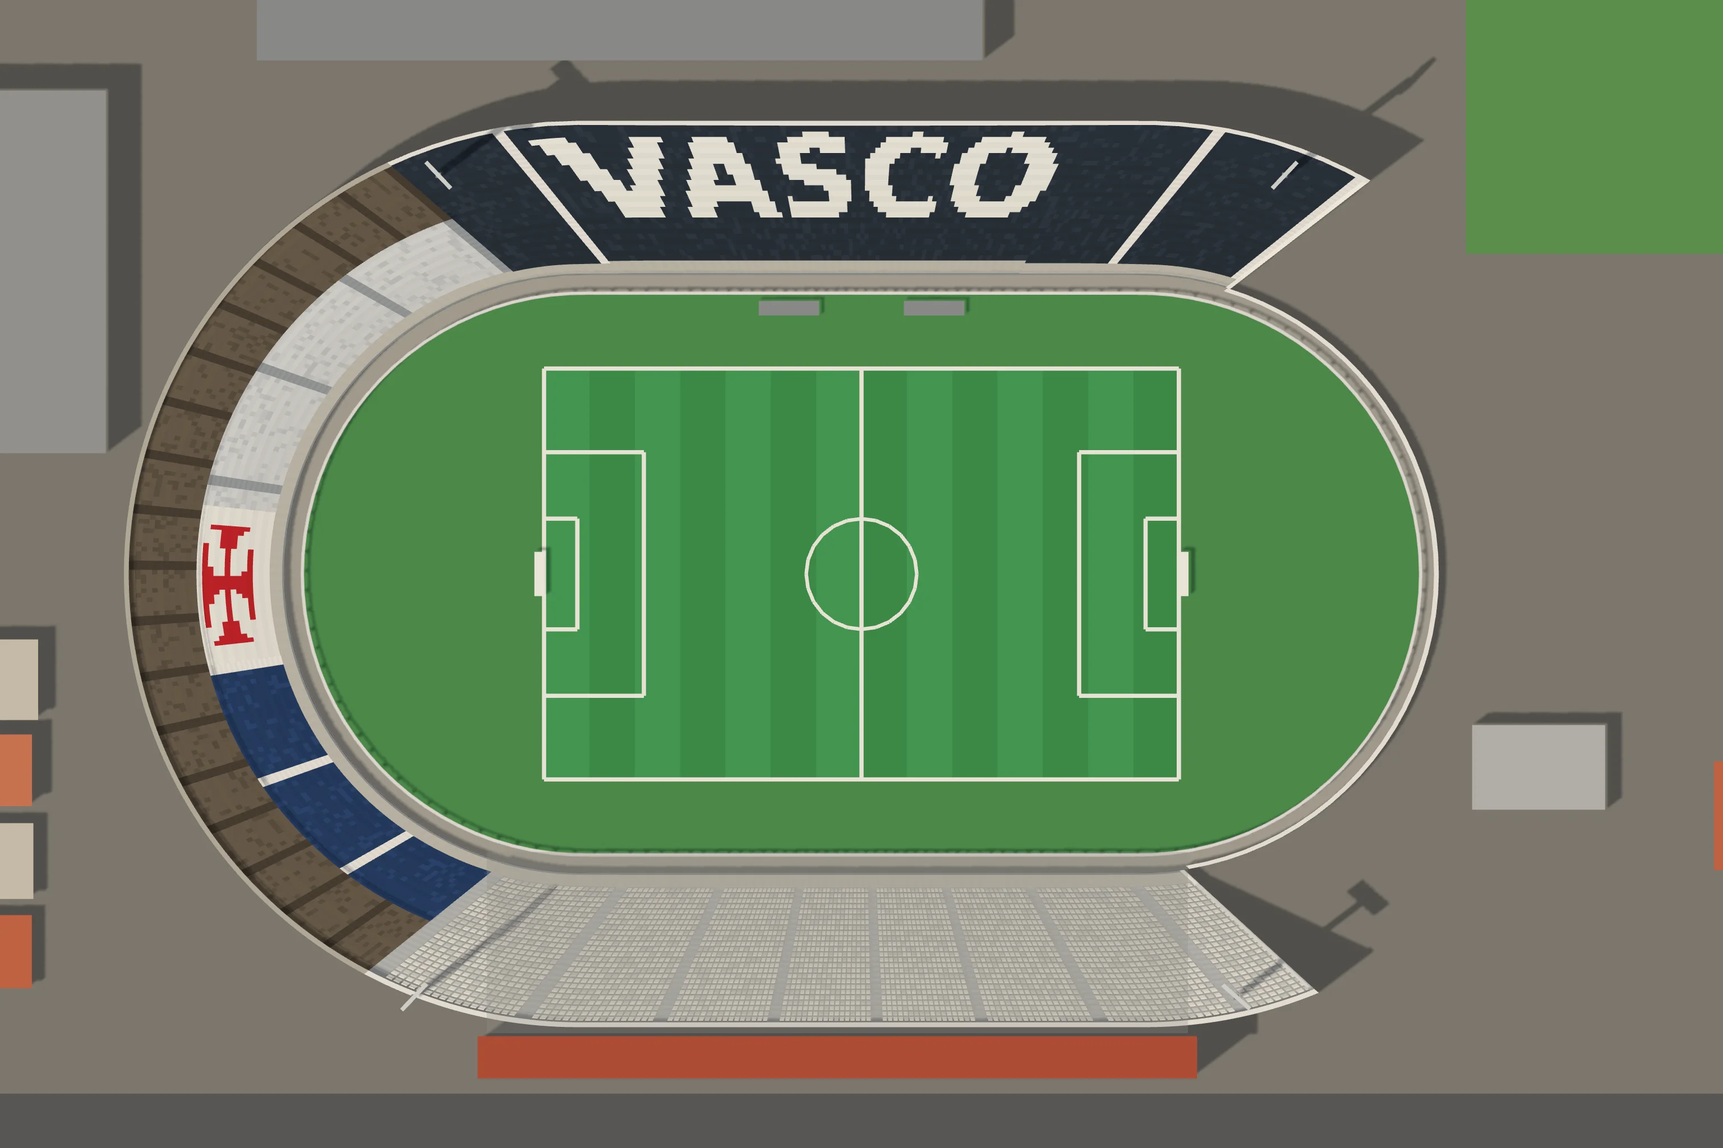
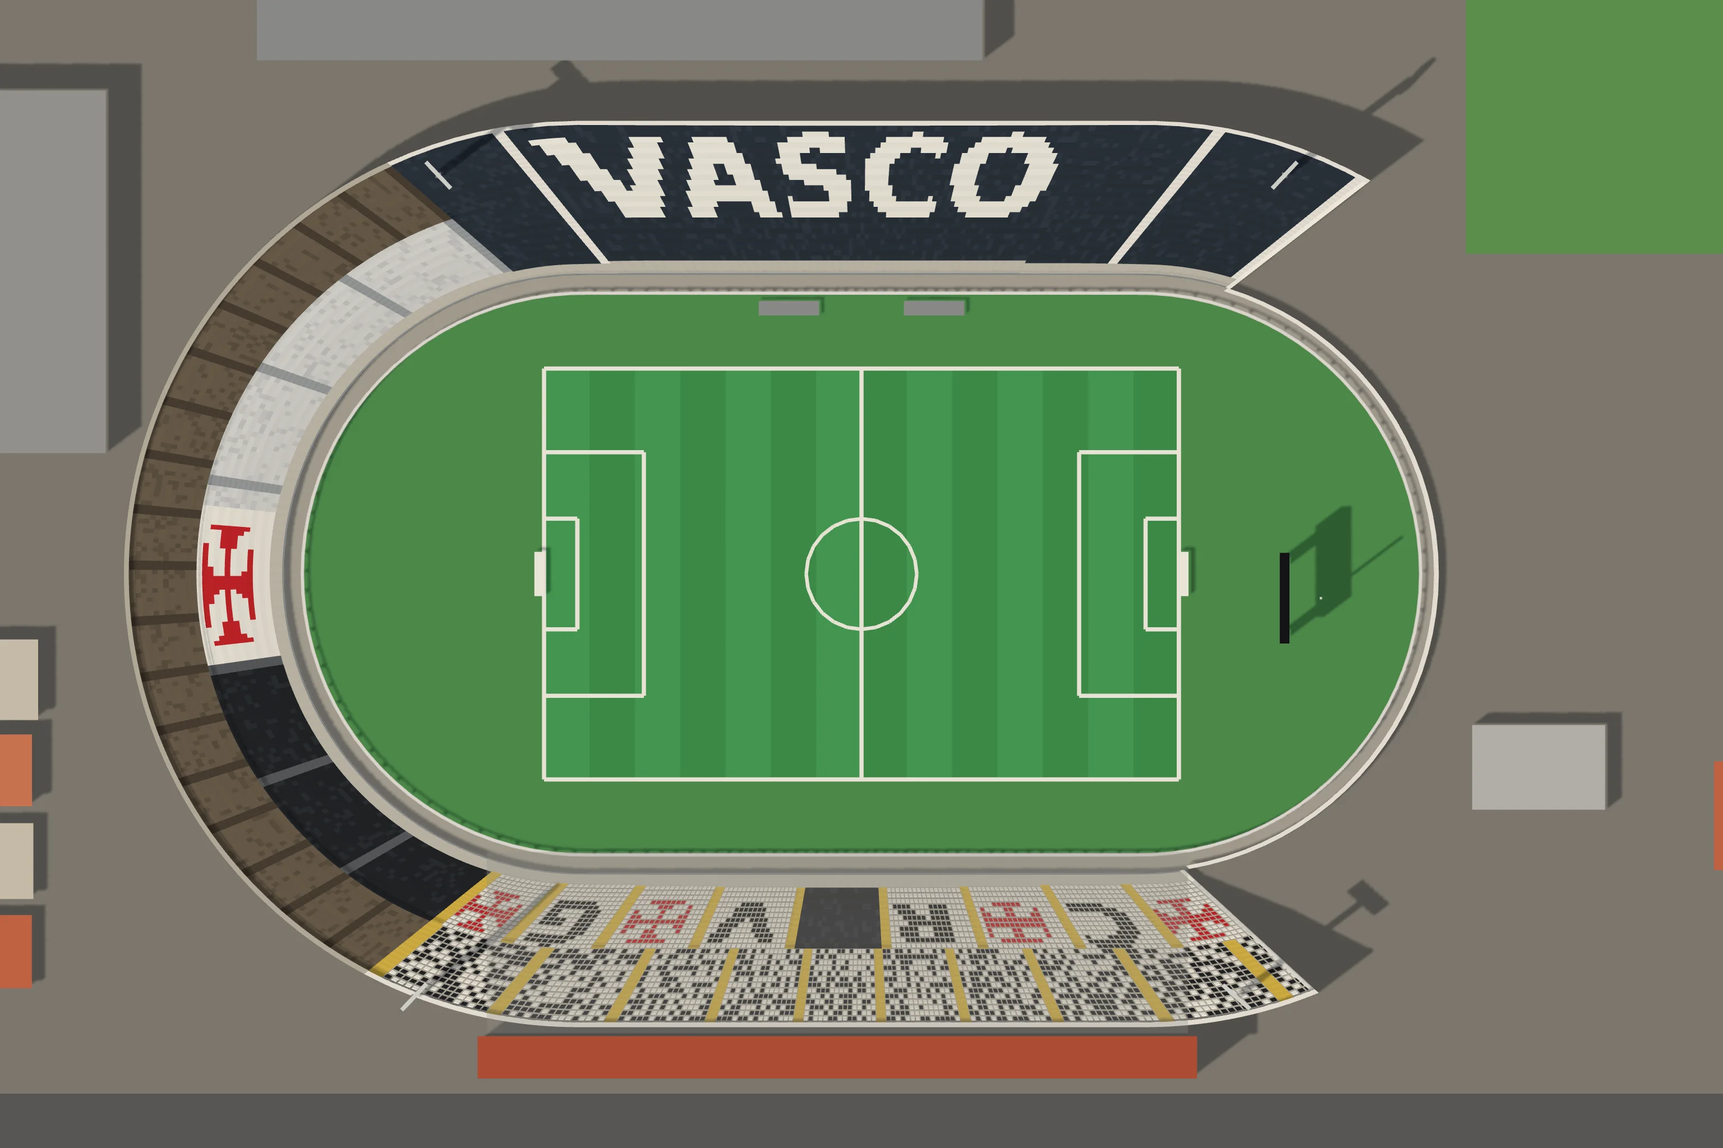
São Januário pelas fotos e mapas do dono: a social de dois andares com os blocos CRVG e as cruzes, o letreiro do clube no telhado, a curva branca com a cruz e os camarotes, o telão do sul
Claude-Session: https://claude.ai/code/session_019hwwMAyyP7ZAvyq6wYTetr

Changed region(s): [[0.125, 0.5625, 0.75, 0.9062], [0.7188, 0.4375, 0.8125, 0.5625]]

diff --git a/cenario3d/planta.html b/cenario3d/planta.html
@@ -289,24 +289,24 @@ button:focus-visible, input:focus-visible { outline: 2px solid var(--selecao); o
 
 <script type="module">
 import * as THREE from 'https://cdn.jsdelivr.net/npm/three@0.160.0/build/three.module.min.js';
-import { planoDaCasa, montarCasa, juntarBlocos, lugarDoDecalque, placasDoLote, segmentosDoMuro, carrosDoEstacionamento, portaoDoEstacionamento } from './js/casas3d.js?v=7408a3c83e';
-import { montarModelos } from './js/modelos3d.js?v=7408a3c83e';
-import { moldeDaPeca, comTransformador } from './js/props3d.js?v=7408a3c83e';
-import { ATLAS } from './js/modelos_atlas.js?v=7408a3c83e';
-import { Construtor, sorteio } from './js/construtor3d.js?v=7408a3c83e';
-import { gerarProposta, MAPAS, MAPA_DO_PORTE, RUA, LONGE_DO_ESTADIO_M, cisaoDaPraca, VAO_CIDADES_M, PRAIA_A_MAIS } from './js/proposta.js?v=7408a3c83e';
-import { montarSede, nivelQueCabe } from './js/sede3d.js?v=7408a3c83e';
-import { onibus as onibusDetalhe, juntar as juntarDetalhe } from './js/detalhe3d.js?v=7408a3c83e';
-import { montarLoteDeVeraneio, plantaDoLote, festaNoMundo, noMundoDoLote, cenaDaFesta, detalheDaCasaDaFesta } from './js/veraneio3d.js?v=7408a3c83e';
-import { montarCaravana, cenaDaCaravana } from './js/caravana3d.js?v=7408a3c83e';
-import { montarEstacao, montarTunel, montarCarro, TREM } from './js/metro3d.js?v=7408a3c83e';
-import { montarShopping, montarDelegacia, montarPraca, montarIgreja, montarEscola, montarHospital } from './js/equip3d.js?v=7408a3c83e';
-import { montarEquipAntigo, TIPOS_ANTIGOS } from './js/equip_antigo3d.js?v=7408a3c83e';
-import { PECAS_PRAIA, montarPecaDaPraia } from './js/praia3d.js?v=7408a3c83e';
-import { ESPECIES_LP, FLORA_LP, montarArvoreLowpoly, montarAsDez, facesDaArvore, especieLowpolyDe } from './js/arvores_lowpoly.js?v=7408a3c83e';
-import { plantarMato, montarMato, LONGE_M, DENSIDADE, LADRILHO_M } from './js/mato3d.js?v=7408a3c83e';
-import { ESTADIOS_JOGO, montarEstadioJogo, glbDoEstadio, cortarEstadio, plantaDoEstadio, modeloDaLotacao, nomeDoLetreiro, nomeComAcento, marcaDoEstadio, BOCAS_DOS_PORTOES, BILHETERIAS_DA_RUA } from './js/estadios3d.js?v=7408a3c83e';
-import { PECAS_AMBULANTES, montarAmbulante } from './js/ambulantes3d.js?v=7408a3c83e';
+import { planoDaCasa, montarCasa, juntarBlocos, lugarDoDecalque, placasDoLote, segmentosDoMuro, carrosDoEstacionamento, portaoDoEstacionamento } from './js/casas3d.js?v=2086d97dbb';
+import { montarModelos } from './js/modelos3d.js?v=2086d97dbb';
+import { moldeDaPeca, comTransformador } from './js/props3d.js?v=2086d97dbb';
+import { ATLAS } from './js/modelos_atlas.js?v=2086d97dbb';
+import { Construtor, sorteio } from './js/construtor3d.js?v=2086d97dbb';
+import { gerarProposta, MAPAS, MAPA_DO_PORTE, RUA, LONGE_DO_ESTADIO_M, cisaoDaPraca, VAO_CIDADES_M, PRAIA_A_MAIS } from './js/proposta.js?v=2086d97dbb';
+import { montarSede, nivelQueCabe } from './js/sede3d.js?v=2086d97dbb';
+import { onibus as onibusDetalhe, juntar as juntarDetalhe } from './js/detalhe3d.js?v=2086d97dbb';
+import { montarLoteDeVeraneio, plantaDoLote, festaNoMundo, noMundoDoLote, cenaDaFesta, detalheDaCasaDaFesta } from './js/veraneio3d.js?v=2086d97dbb';
+import { montarCaravana, cenaDaCaravana } from './js/caravana3d.js?v=2086d97dbb';
+import { montarEstacao, montarTunel, montarCarro, TREM } from './js/metro3d.js?v=2086d97dbb';
+import { montarShopping, montarDelegacia, montarPraca, montarIgreja, montarEscola, montarHospital } from './js/equip3d.js?v=2086d97dbb';
+import { montarEquipAntigo, TIPOS_ANTIGOS } from './js/equip_antigo3d.js?v=2086d97dbb';
+import { PECAS_PRAIA, montarPecaDaPraia } from './js/praia3d.js?v=2086d97dbb';
+import { ESPECIES_LP, FLORA_LP, montarArvoreLowpoly, montarAsDez, facesDaArvore, especieLowpolyDe } from './js/arvores_lowpoly.js?v=2086d97dbb';
+import { plantarMato, montarMato, LONGE_M, DENSIDADE, LADRILHO_M } from './js/mato3d.js?v=2086d97dbb';
+import { ESTADIOS_JOGO, montarEstadioJogo, glbDoEstadio, cortarEstadio, plantaDoEstadio, modeloDaLotacao, nomeDoLetreiro, nomeComAcento, marcaDoEstadio, BOCAS_DOS_PORTOES, BILHETERIAS_DA_RUA } from './js/estadios3d.js?v=2086d97dbb';
+import { PECAS_AMBULANTES, montarAmbulante } from './js/ambulantes3d.js?v=2086d97dbb';
 
 const $ = id => document.getElementById(id);
 const aviso = $('aviso');
@@ -323,25 +323,25 @@ function carregarScript(src) {
 }
 window.TO = window.TO || { dados: {} };
 try {
-  await carregarScript('dados/torcidas.js?v=7408a3c83e');
-  await carregarScript('dados/times.js?v=7408a3c83e');
-  await carregarScript('dados/cena_estadio.js?v=7408a3c83e');
-  await carregarScript('dados/cidades.js?v=7408a3c83e');
-  await carregarScript('dados/estadios.js?v=7408a3c83e');
-  await carregarScript('dados/escudos.js?v=7408a3c83e');
+  await carregarScript('dados/torcidas.js?v=2086d97dbb');
+  await carregarScript('dados/times.js?v=2086d97dbb');
+  await carregarScript('dados/cena_estadio.js?v=2086d97dbb');
+  await carregarScript('dados/cidades.js?v=2086d97dbb');
+  await carregarScript('dados/estadios.js?v=2086d97dbb');
+  await carregarScript('dados/escudos.js?v=2086d97dbb');
   /* o manifesto das faixas de verdade (a arte do dono, 29/09/2026): a arquibancada estende a da torcida */
-  await carregarScript('dados/faixas.js?v=7408a3c83e').catch(() => {});
+  await carregarScript('dados/faixas.js?v=2086d97dbb').catch(() => {});
   /* O DOMÍNIO DOS BAIRROS (o dono, 30/09/2026): as sedes repetidas num
      bairro saem espalhadas (nos dados, na carga) e os bares ganham o
      bairro deles — o mesmo módulo do jogo (js/mundo/dominio.js) */
-  await carregarScript('js/dominio.js?v=7408a3c83e').catch(() => {});
+  await carregarScript('js/dominio.js?v=2086d97dbb').catch(() => {});
 } catch (e) {
   aviso.textContent = 'A planta da cidade não carregou (' + e.message + '). Recarregue a página.';
   throw e;
 }
 /* os PNG dos escudos, embutidos (o montar.sh gera): sem o arquivo, o
    caminho vai direto pra img/escudos/ */
-await carregarScript('dados/escudos_embutidos.js?v=7408a3c83e').catch(() => {});
+await carregarScript('dados/escudos_embutidos.js?v=2086d97dbb').catch(() => {});
 const P = TO.dados.plantaEstadio, K = P.CIDADE, M = P.METRO, CALC = K.CALC;
 /* o mapa da vez (o pequeno, o médio ou o grande, montado pra praça
    escolhida): quem monta é usarMapa, lá embaixo */

diff --git a/cenario3d/dados/estadios_cenas.js b/cenario3d/dados/estadios_cenas.js
@@ -13266,8 +13266,8 @@ window.__ESTADIOS = {
    "visitante": 3
   },
   "foto": {
-   "imagem": "img/cenas/estadio_sao_januario.webp?v=cbba5953",
-   "mascara": "384;384;384;384;384;384;384;384;384;384;384;384;384;384;384;384;384;384;384;384;384;384;384;384;384;384;384;117,150,117;110,164,110;105,174,105;101,182,101;98,188,98;95,194,95;92,200,92;90,204,90;87,210,87;87,212,85;85,216,83;83,220,81;81,224,79;79,226,79;78,226,80;76,226,82;74,227,83;73,227,84;71,228,85;70,227,87;69,227,88;67,228,89;66,227,91;65,227,92;63,228,93;62,228,94;61,227,96;60,227,97;59,227,98;58,226,100;57,226,101;56,226,102;55,225,104;54,225,105;53,225,106;52,225,107;52,223,109;51,224,109;50,70,144,14,106;49,66,154,11,104;48,64,160,11,101;48,61,166,10,99;47,59,172,9,97;46,58,176,8,96;46,56,180,8,94;45,55,184,7,93;44,54,188,7,91;44,52,192,6,90;43,52,194,7,88;42,51,198,6,87;42,50,200,6,86;41,50,202,6,85;41,49,204,6,84;40,48,208,5,83;40,47,210,5,82;39,47,212,5,81;39,46,214,5,80;38,46,216,5,79;38,45,218,5,78;37,45,220,5,77;37,45,220,5,77;36,45,222,5,76;36,44,224,5,75;36,43,226,5,74;35,43,228,4,74;35,43,228,5,73;34,43,230,4,73;34,42,232,4,72;34,42,232,5,71;33,42,234,4,71;33,42,234,5,70;33,41,236,4,70;32,42,236,5,69;32,41,238,4,69;32,41,238,4,69;32,40,240,4,68;31,41,240,4,68;31,40,242,4,67;31,40,242,4,67;31,39,244,3,67;30,40,244,4,66;30,40,244,4,66;30,39,246,3,66;30,39,246,4,65;30,39,246,4,65;30,39,246,4,65;29,39,248,3,65;29,39,248,4,64;29,39,248,4,64;29,39,248,4,64;29,39,248,4,64;29,38,250,3,64;29,38,250,3,64;29,38,250,3,64;29,38,250,4,63;29,38,250,4,63;28,39,250,4,63;28,39,250,4,63;28,39,250,4,63;28,39,250,4,63;28,39,250,4,63;28,39,250,4,63;28,39,250,4,63;28,39,250,4,63;28,39,250,4,63;28,39,250,4,63;29,38,250,4,63;29,38,250,4,63;29,38,250,3,64;29,38,250,3,64;29,38,250,3,64;29,39,248,4,64;29,39,248,4,64;29,39,248,4,64;29,39,248,4,64;29,39,248,3,65;30,39,246,4,65;30,39,246,4,65;30,39,246,4,65;30,39,246,3,66;30,40,244,4,66;30,40,244,4,66;31,39,244,3,67;31,40,242,4,67;31,40,242,4,67;31,41,240,4,68;32,40,240,4,68;32,41,238,4,69;32,41,238,4,69;32,42,236,5,69;33,41,236,4,70;33,42,234,5,70;33,42,234,4,71;34,42,232,5,71;34,42,232,4,72;34,43,230,4,73;35,43,228,5,73;35,43,228,4,74;36,43,226,5,74;36,44,224,5,75;36,45,222,5,76;37,45,220,5,77;37,45,220,5,77;38,45,218,5,78;38,46,216,5,79;39,46,214,5,80;39,47,212,5,81;40,47,210,5,82;40,48,208,5,83;41,49,204,6,84;41,50,202,6,85;42,50,200,6,86;42,51,198,6,87;43,52,194,7,88;44,52,192,6,90;44,54,188,7,91;45,55,184,7,93;46,56,180,8,94;46,58,176,8,96;47,59,172,9,97;48,61,166,10,99;48,64,160,11,101;49,66,154,11,104;50,70,144,14,106;51,224,109;52,220,112;52,215,117;53,212,119;54,212,118;55,212,117;56,212,116;57,212,115;58,212,114;59,212,113;60,212,112;61,212,111;62,212,110;63,212,109;65,212,107;66,212,106;67,212,105;69,211,104;70,211,103;71,211,102;73,210,101;74,210,100;76,209,99;78,208,98;79,208,97;81,208,95;81,209,94;83,208,93;85,207,92;87,206,91;90,204,90;92,200,92;95,194,95;98,188,98;101,182,101;105,174,105;110,164,110;117,150,117;384;384;384;384;384;384;384;384;384;384;384;384;384;384;384;384;384;384;384;384;384;384;384;384;384;384;384"
+   "imagem": "img/cenas/estadio_sao_januario.webp?v=46ba2304",
+   "mascara": "384;384;384;384;384;384;384;384;384;384;384;384;384;384;384;384;384;384;384;384;384;384;384;384;384;384;384;117,150,117;110,164,110;105,174,105;101,182,101;98,188,98;95,194,95;92,200,92;90,204,90;87,210,87;87,212,85;85,216,83;83,220,81;81,224,79;79,226,79;78,226,80;76,226,82;74,227,83;73,227,84;71,228,85;70,227,87;69,227,88;67,228,89;66,227,91;65,227,92;63,228,93;62,228,94;61,227,96;60,227,97;59,227,98;58,226,100;57,226,101;56,226,102;55,225,104;54,225,105;53,225,106;52,225,107;52,223,109;51,224,109;50,70,144,14,106;49,66,154,11,104;48,64,160,11,101;48,61,166,10,99;47,59,172,9,97;46,58,176,8,96;46,56,180,8,94;45,55,184,7,93;44,54,188,7,91;44,52,192,6,90;43,52,194,7,88;42,51,198,6,87;42,50,200,6,86;41,50,202,6,85;41,49,204,6,84;40,48,208,5,83;40,47,210,5,82;39,47,212,5,81;39,46,214,5,80;38,46,216,5,79;38,45,218,5,78;37,45,220,5,77;37,45,220,5,77;36,45,222,5,76;36,44,224,5,75;36,43,226,5,74;35,43,228,4,74;35,43,228,5,73;34,43,230,4,73;34,42,232,4,72;34,42,232,5,71;33,42,234,4,71;33,42,234,5,70;33,41,236,4,70;32,42,236,5,69;32,41,238,4,69;32,41,238,4,69;32,40,240,4,68;31,41,240,4,68;31,40,242,4,67;31,40,242,4,67;31,39,244,3,67;30,40,244,4,66;30,40,244,4,66;30,39,246,3,66;30,39,246,4,65;30,39,246,4,65;30,39,246,4,65;29,39,248,3,65;29,39,248,4,64;29,39,248,4,64;29,39,248,4,64;29,39,248,4,64;29,38,250,3,64;29,38,250,3,64;29,38,250,3,64;29,38,250,4,63;29,38,250,4,63;28,39,250,4,63;28,39,250,4,63;28,39,250,4,63;28,39,250,4,63;28,39,250,4,63;28,39,250,4,63;28,39,250,4,63;28,39,250,4,63;28,39,250,4,63;28,39,250,4,63;29,38,250,4,63;29,38,250,4,63;29,38,250,3,64;29,38,250,3,64;29,38,250,3,64;29,39,248,4,64;29,39,248,4,64;29,39,248,4,64;29,39,248,4,64;29,39,248,3,65;30,39,246,4,65;30,39,246,4,65;30,39,246,4,65;30,39,246,3,66;30,40,244,4,66;30,40,244,4,66;31,39,244,3,67;31,40,242,4,67;31,40,242,4,67;31,41,240,4,68;32,40,240,4,68;32,41,238,4,69;32,41,238,4,69;32,42,236,5,69;33,41,236,4,70;33,42,234,5,70;33,42,234,4,71;34,42,232,5,71;34,42,232,4,72;34,43,230,4,73;35,43,228,5,73;35,43,228,4,74;36,43,226,5,74;36,44,224,5,75;36,45,222,5,76;37,45,220,5,77;37,45,220,5,77;38,45,218,5,78;38,46,216,5,79;39,46,214,5,80;39,47,212,5,81;40,47,210,5,82;40,48,208,5,83;41,49,204,6,84;41,50,202,6,85;42,50,200,6,86;42,51,198,6,87;43,52,194,7,88;44,52,192,6,90;44,54,188,7,91;45,55,184,7,93;46,56,180,8,94;46,58,176,8,96;47,59,172,9,97;48,61,166,10,99;48,64,160,11,101;49,66,154,11,104;50,70,144,14,106;51,224,109;52,220,112;52,215,117;53,212,119;54,212,118;55,212,117;56,212,116;57,212,115;58,212,114;59,212,113;60,212,112;61,212,111;62,212,110;63,212,109;65,212,107;66,212,106;67,212,105;69,211,104;70,211,103;71,211,102;73,210,101;74,210,100;76,209,99;78,208,98;79,208,97;81,208,95;83,207,94;85,206,93;87,205,92;90,203,91;92,200,92;95,194,95;98,188,98;101,182,101;105,174,105;109,166,109;115,154,115;384;384;384;384;384;384;384;384;384;384;384;384;384;384;384;384;384;384;384;384;384;384;384;384;384;384;384;384"
   },
   "cena": {
    "nome": "São Januário",

diff --git a/cenario3d/js/jogo2d.js b/cenario3d/js/jogo2d.js
@@ -17,7 +17,7 @@
    cartão da partida cai perto da hora da bola e nada do que conta o
    placar passa na frente dele.
    ========================================================= */
-import { CASCA } from './jogo_casca.js?v=7408a3c83e';
+import { CASCA } from './jogo_casca.js?v=2086d97dbb';
 
 const carregarScript = src => new Promise((ok, erro) => {
   const s = document.createElement('script');
@@ -31,17 +31,17 @@ async function montarJogo() {
   caixa.innerHTML = CASCA;
   while (caixa.firstChild) document.body.appendChild(caixa.firstChild);
   /* os escudos, as fotos das praças e as bandeiras embutidos (o `IMG()` do jogo procura aqui antes do caminho) */
-  await carregarScript('dados/imagens_jogo.js?v=7408a3c83e').catch(() => {});
+  await carregarScript('dados/imagens_jogo.js?v=2086d97dbb').catch(() => {});
   /* os estádios low-poly das cenas (ferramentas/estadios/assar.js): antes do jogo, que monta as cenas quando carrega */
-  await carregarScript('dados/estadios_cenas.js?v=7408a3c83e').catch(() => {});
+  await carregarScript('dados/estadios_cenas.js?v=2086d97dbb').catch(() => {});
   /* sem o rolo do feed: a tela entre os jogos é o portal */
   window.TO = window.TO || {};
   TO.semFeed = true;
-  await carregarScript('js/jogo.js?v=7408a3c83e');
-  await carregarScript('js/portal.js?v=7408a3c83e').catch(err => console.error('o portal não carregou:', err));
+  await carregarScript('js/jogo.js?v=2086d97dbb');
+  await carregarScript('js/portal.js?v=2086d97dbb').catch(err => console.error('o portal não carregou:', err));
   /* o boneco das cenas de imagem (os dois níveis afinados, em base64) */
-  if (!TO.dados.bonecoPertoGLB) await carregarScript('dados/boneco_glb.js?v=7408a3c83e').catch(() => {});
-  await import('./bonecos3_global.js?v=7408a3c83e').catch(err => console.error('o boneco das cenas não carregou:', err));
+  if (!TO.dados.bonecoPertoGLB) await carregarScript('dados/boneco_glb.js?v=2086d97dbb').catch(() => {});
+  await import('./bonecos3_global.js?v=2086d97dbb').catch(err => console.error('o boneco das cenas não carregou:', err));
   ligar();
 }
 

diff --git a/cenario3d/jogo.html b/cenario3d/jogo.html
@@ -9,16 +9,16 @@
 <link rel="preconnect" href="https://fonts.googleapis.com">
 <link rel="preconnect" href="https://fonts.gstatic.com" crossorigin>
 <link rel="stylesheet" href="https://fonts.googleapis.com/css2?family=Barlow+Semi+Condensed:wght@500;600;700&family=Barlow:wght@400;500;600&family=IBM+Plex+Mono:wght@400;500&display=swap">
-<link rel="stylesheet" href="css/jogo.css?v=7408a3c83e">
-<link rel="stylesheet" href="css/jogo3d.css?v=7408a3c83e">
-<link rel="stylesheet" href="css/portal.css?v=7408a3c83e">
-<link rel="stylesheet" href="css/telas3d.css?v=7408a3c83e">
+<link rel="stylesheet" href="css/jogo.css?v=2086d97dbb">
+<link rel="stylesheet" href="css/jogo3d.css?v=2086d97dbb">
+<link rel="stylesheet" href="css/portal.css?v=2086d97dbb">
+<link rel="stylesheet" href="css/telas3d.css?v=2086d97dbb">
 <style>
 [hidden] { display: none !important; }
 html, body { height: 100%; margin: 0; }
 </style>
 </head>
 <body class="jogo3d">
-<script type="module" src="js/jogo2d.js?v=7408a3c83e"></script>
+<script type="module" src="js/jogo2d.js?v=2086d97dbb"></script>
 </body>
 </html>

diff --git a/cenario3d/js/casas3d.js b/cenario3d/js/casas3d.js
@@ -60,10 +60,10 @@
    avançam (`rec`), e o letreiro, a pixação e a falha de reboco do
    bairro vão pro plano dessa parede, não pro da divisa.
    ========================================================= */
-import { Construtor, METRO, mureta, toldo, arSplit, sorteio } from './construtor3d.js?v=7408a3c83e';
-import { ATLAS } from './modelos_atlas.js?v=7408a3c83e';
+import { Construtor, METRO, mureta, toldo, arSplit, sorteio } from './construtor3d.js?v=2086d97dbb';
+import { ATLAS } from './modelos_atlas.js?v=2086d97dbb';
 /* as lojas do assalto (lojas3d.js): modelos de lote como os outros */
-import { TIPOS_LOJA, REC_LOJA, placaDaLoja } from './lojas3d.js?v=7408a3c83e';
+import { TIPOS_LOJA, REC_LOJA, placaDaLoja } from './lojas3d.js?v=2086d97dbb';
 
 /* o arquivo de cada folha, pro bairro montar o material dele */
 export const arquivoDaFolha = folha => ATLAS[folha].arquivo;

diff --git a/cenario3d/js/ambulantes3d.js b/cenario3d/js/ambulantes3d.js
@@ -27,8 +27,8 @@
    que a planta acha o lugar dela na calçada do estádio. `sol`: o meio e
    o raio da copa ([x, z, r]), que o mapa desenha de perto.
    ========================================================= */
-import { Construtor, noMundo, placasNoMundo, sorteio, esfera, unit } from './construtor3d.js?v=7408a3c83e';
-import { Lugar, barra, tubo, cilindro, bloco, pano, toro, guardaSol, cadeiraPlastica, isopor, banqueta, CORES_SOL } from './praia3d.js?v=7408a3c83e';
+import { Construtor, noMundo, placasNoMundo, sorteio, esfera, unit } from './construtor3d.js?v=2086d97dbb';
+import { Lugar, barra, tubo, cilindro, bloco, pano, toro, guardaSol, cadeiraPlastica, isopor, banqueta, CORES_SOL } from './praia3d.js?v=2086d97dbb';
 
 const AQUI = Lugar();
 const escolha = (rnd, lista) => lista[Math.floor(rnd() * lista.length) % lista.length];

diff --git a/cenario3d/js/praia3d.js b/cenario3d/js/praia3d.js
@@ -36,8 +36,8 @@
    cadeira e a mesa de plástico) servem também os ambulantes da porta do
    estádio (ambulantes3d.js), na mesma folha.
    ========================================================= */
-import { Construtor, METRO, lerp, sub, soma, esc, unit, pv, noMundo, placasNoMundo, sorteio, varrer, esfera } from './construtor3d.js?v=7408a3c83e';
-import { montarArvoreLowpoly } from './arvores_lowpoly.js?v=7408a3c83e';
+import { Construtor, METRO, lerp, sub, soma, esc, unit, pv, noMundo, placasNoMundo, sorteio, varrer, esfera } from './construtor3d.js?v=2086d97dbb';
+import { montarArvoreLowpoly } from './arvores_lowpoly.js?v=2086d97dbb';
 
 const ALTO = [0, 1, 0];
 const escolha = (rnd, lista) => lista[Math.floor(rnd() * lista.length) % lista.length];

diff --git a/cenario3d/js/modelos3d.js b/cenario3d/js/modelos3d.js
@@ -32,8 +32,8 @@
    requadro da janela, toldo, ar-condicionado. O resto é pintura.
    ========================================================= */
 import * as THREE from 'https://cdn.jsdelivr.net/npm/three@0.160.0/build/three.module.min.js';
-import { ATLAS } from './modelos_atlas.js?v=7408a3c83e';
-import { Construtor, METRO, lerp, sub, soma, esc, pv, pe, unit, recuoPoligono, mureta, toldo, arSplit } from './construtor3d.js?v=7408a3c83e';
+import { ATLAS } from './modelos_atlas.js?v=2086d97dbb';
+import { Construtor, METRO, lerp, sub, soma, esc, pv, pe, unit, recuoPoligono, mureta, toldo, arSplit } from './construtor3d.js?v=2086d97dbb';
 
 /* =======================================================
    1. A IGREJA MATRIZ

diff --git a/cenario3d/js/props3d.js b/cenario3d/js/props3d.js
@@ -26,8 +26,8 @@
    poste vira uma haste de longe; o resto, que é miúdo, some.
    ========================================================= */
 import * as THREE from 'https://cdn.jsdelivr.net/npm/three@0.160.0/build/three.module.min.js';
-import { ATLAS } from './modelos_atlas.js?v=7408a3c83e';
-import { Construtor, METRO, lerp } from './construtor3d.js?v=7408a3c83e';
+import { ATLAS } from './modelos_atlas.js?v=2086d97dbb';
+import { Construtor, METRO, lerp } from './construtor3d.js?v=2086d97dbb';
 
 /* as cores que o vértice dá pro que sai claro na folha */
 const COR_CESTO = ['#6aa33a', '#d2b53a', '#3f82ad', '#8b6a3c', '#b8452f'];

diff --git a/cenario3d/js/mato3d.js b/cenario3d/js/mato3d.js
@@ -19,8 +19,8 @@
 
    Tudo em metros; `noMundo` converte. A mesma semente dá o mesmo mato.
    ========================================================= */
-import { METRO, noMundo, sorteio } from './construtor3d.js?v=7408a3c83e';
-import { facesDaArvore, especieLowpolyDe } from './arvores_lowpoly.js?v=7408a3c83e';
+import { METRO, noMundo, sorteio } from './construtor3d.js?v=2086d97dbb';
+import { facesDaArvore, especieLowpolyDe } from './arvores_lowpoly.js?v=2086d97dbb';
 
 /* a área de chão de cada árvore (m²), por lugar */
 export const DENSIDADE = { mata: 70, cerrado: 200, caatinga: 150, sul: 90, praia: 120, cidade: 250 };

diff --git a/cenario3d/js/bonecos3_global.js b/cenario3d/js/bonecos3_global.js
@@ -14,7 +14,7 @@
    DOMContentLoaded: quem usa (a ponte, numa cena aberta pelo jogador)
    chega muito depois.
    ========================================================= */
-import { montar, desenharDeCima, desenharVitrine, limparDeCima, fotoDoTrofeu, fotoDaBriga, fotoDaCena, perdeu, bonecos } from './bonecos3_cena.js?v=7408a3c83e';
+import { montar, desenharDeCima, desenharVitrine, limparDeCima, fotoDoTrofeu, fotoDaBriga, fotoDaCena, perdeu, bonecos } from './bonecos3_cena.js?v=2086d97dbb';
 
 window.TO = window.TO || {};
 TO.diaJogo = TO.diaJogo || {};

diff --git a/cenario3d/js/bonecos3_cena.js b/cenario3d/js/bonecos3_cena.js
@@ -103,7 +103,7 @@
       numa fase sorteada (quem sai junto não sai no mesmo pé).
    ========================================================= */
 import * as THREE from 'https://cdn.jsdelivr.net/npm/three@0.160.0/build/three.module.min.js';
-import { GLTFLoader, SkeletonUtils } from './GLTFLoader.js?v=7408a3c83e';
+import { GLTFLoader, SkeletonUtils } from './GLTFLoader.js?v=2086d97dbb';
 
 /* onde o modelo mora, quando não vem embutido em base64: o detalhado
    (o do Blender) e os dois níveis afinados dele (ferramentas/afinar_boneco.mjs) */
